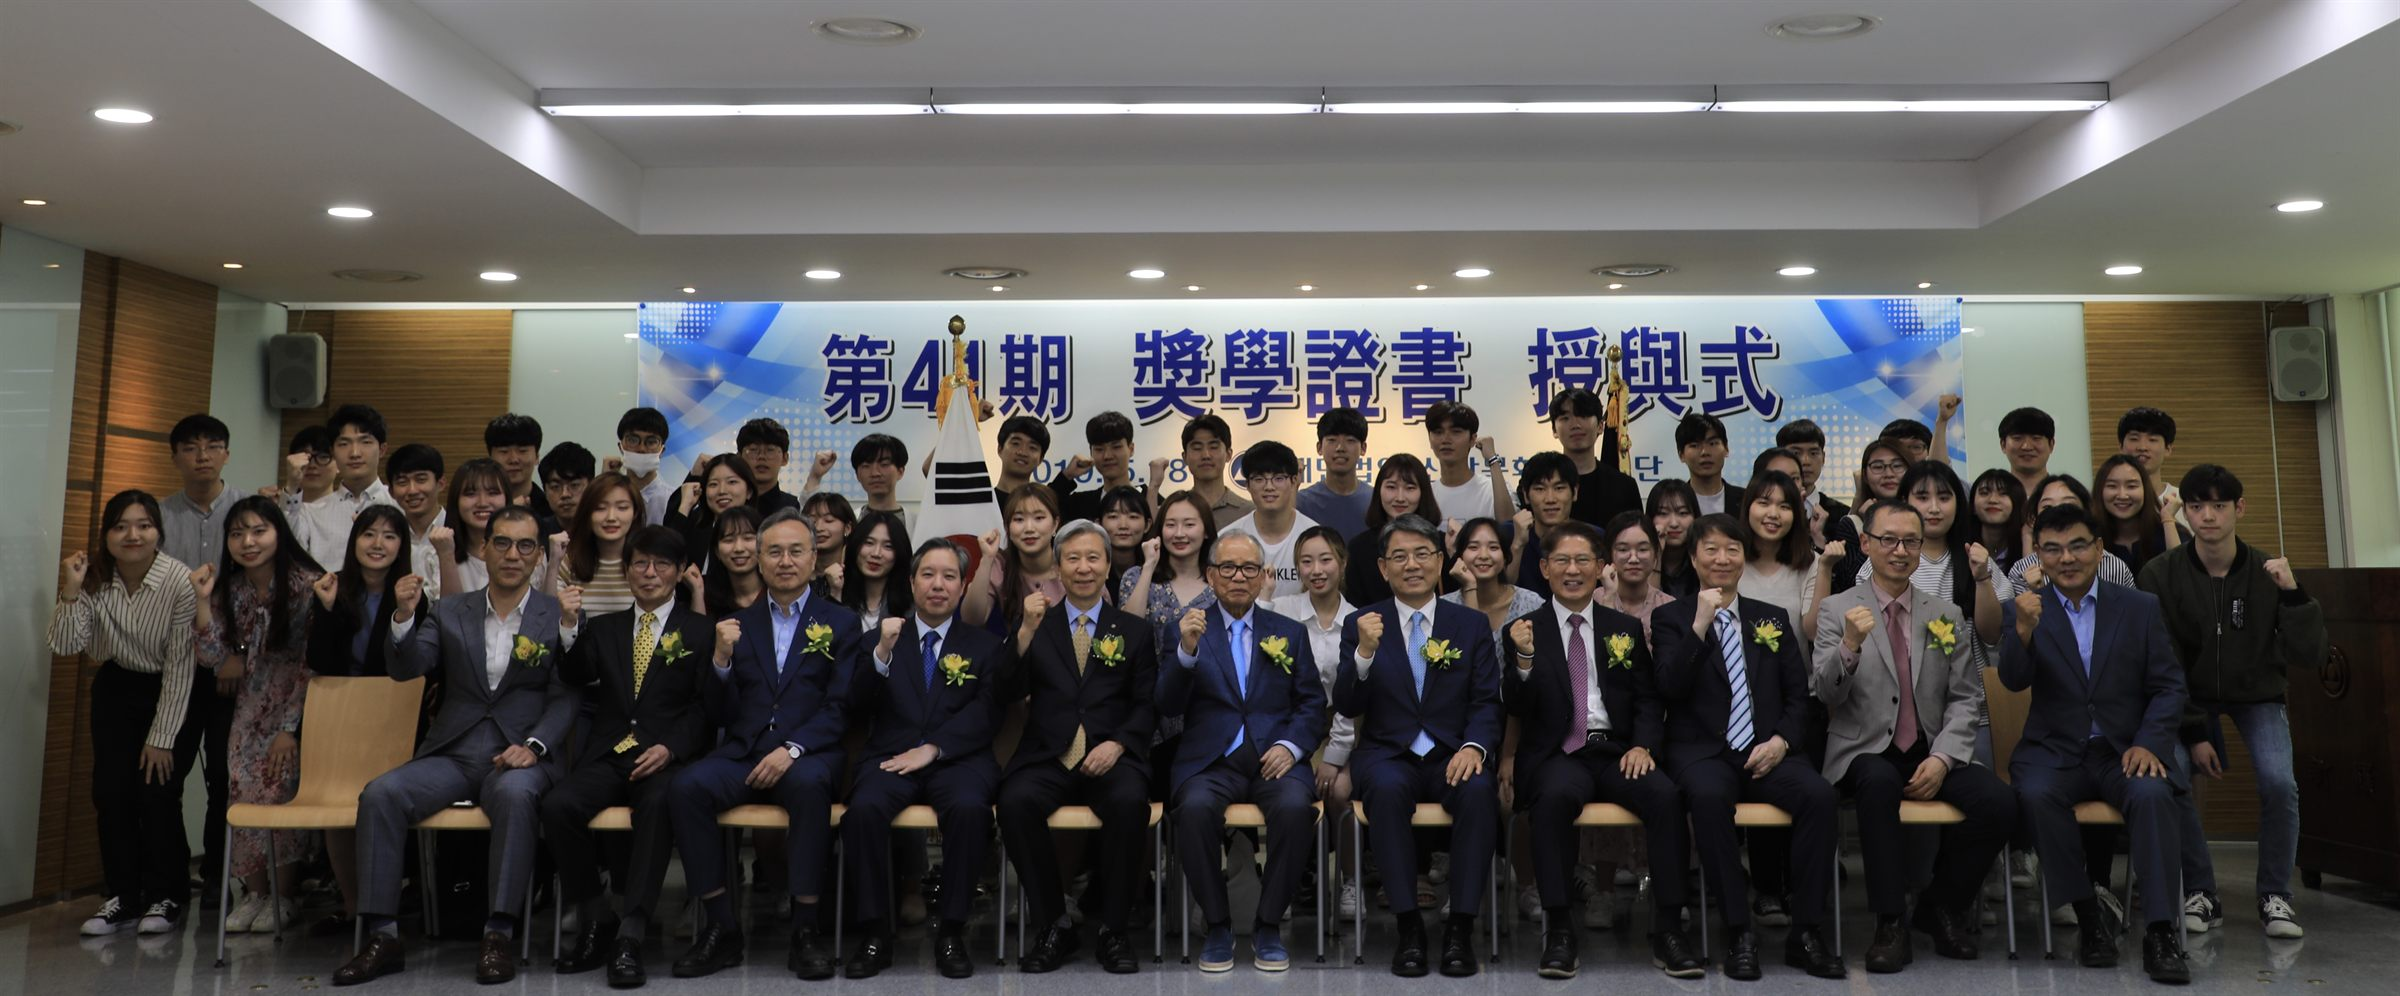
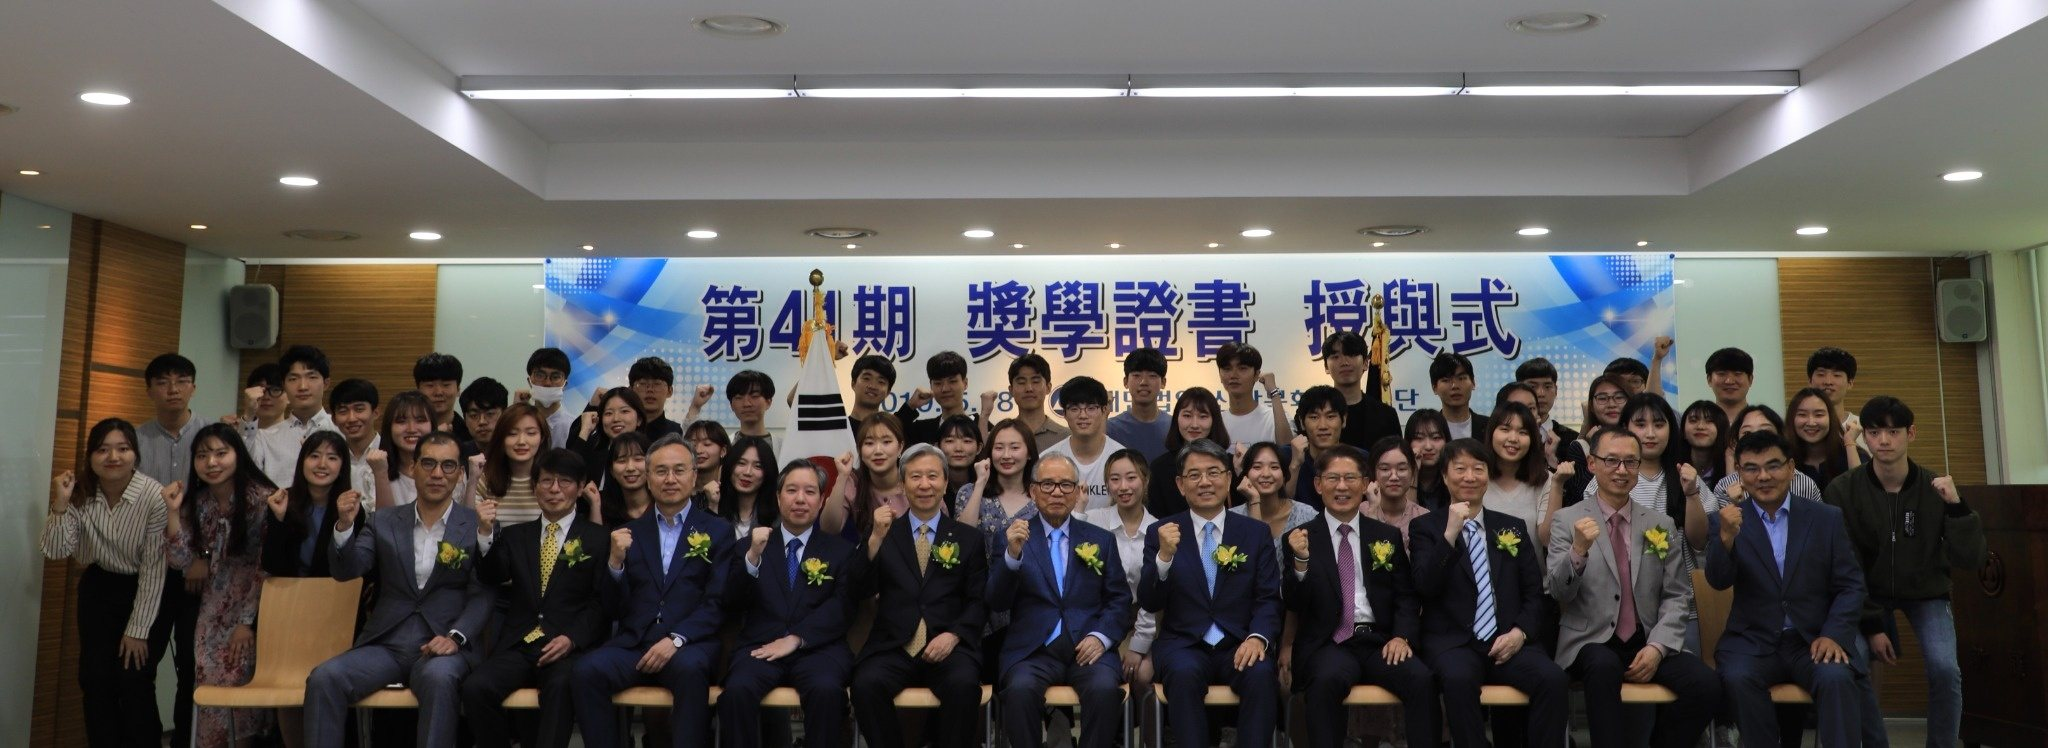
각 서브페이지 배너이미지 추가

diff --git a/src/components/ResourcesSubpage.vue b/src/components/ResourcesSubpage.vue
@@ -580,10 +580,16 @@ onUnmounted(() => {
 
 .sub-banner {
   position: relative;
-  background-image: url('../assets/history_founder.png');
+  background-image: url('../assets/resources_banner.jpg');
   background-size: cover;
-  background-position: center 30%;
-  padding: 140px 0 100px;
+  /* 책상과 책장이 사진 가운데에 있어 그 부분이 보이도록 맞춘다. */
+  background-position: center 50%;
+  /* 설명문이 한 줄이든 두 줄이든 다섯 페이지 배너 높이가 같도록 고정한다. */
+  min-height: 420px;
+  display: flex;
+  align-items: center;
+  /* 고정 메뉴바에 가려지는 위쪽을 뺀, 실제로 보이는 영역의 가운데에 글자를 놓는다. */
+  padding: calc(60px + var(--header-height)) 0 60px;
   text-align: center;
   border-bottom: 1px solid var(--border-color);
   overflow: hidden;
@@ -597,9 +603,9 @@ onUnmounted(() => {
   width: 100%;
   height: 100%;
   background: linear-gradient(to bottom,
-      rgba(248, 250, 252, 0.52) 0%,
-      rgba(248, 250, 252, 0.42) 60%,
-      var(--bg-color) 100%);
+      rgba(0, 0, 0, 0.55) 0%,
+      rgba(0, 0, 0, 0.45) 60%,
+      rgba(0, 0, 0, 0.65) 100%);
   z-index: 1;
 }
 
@@ -609,7 +615,7 @@ onUnmounted(() => {
 }
 
 .banner-subtitle {
-  color: var(--primary-color);
+  color: rgba(255, 255, 255, 0.85);
   font-size: 0.9rem;
   font-weight: 700;
   letter-spacing: 0.25em;
@@ -621,12 +627,12 @@ onUnmounted(() => {
 .banner-title {
   font-size: 3rem;
   font-weight: 500;
-  color: var(--text-primary);
+  color: #ffffff;
   margin-bottom: 16px;
 }
 
 .banner-desc {
-  color: var(--text-secondary);
+  color: rgba(255, 255, 255, 0.9);
   font-size: 1.1rem;
   max-width: none;
   margin: 0 auto;

diff --git a/src/components/NoticeSubpage.vue b/src/components/NoticeSubpage.vue
@@ -284,10 +284,16 @@ onUnmounted(() => {
 
 .sub-banner {
   position: relative;
-  background-image: url('../assets/history_founder.png');
+  background-image: url('../assets/notice_banner.jpg');
   background-size: cover;
-  background-position: center 30%;
-  padding: 140px 0 100px;
+  /* 책상 위 자료가 사진 아래쪽에 있어 그 부분이 보이도록 맞춘다. */
+  background-position: center 50%;
+  /* 설명문이 한 줄이든 두 줄이든 다섯 페이지 배너 높이가 같도록 고정한다. */
+  min-height: 420px;
+  display: flex;
+  align-items: center;
+  /* 고정 메뉴바에 가려지는 위쪽을 뺀, 실제로 보이는 영역의 가운데에 글자를 놓는다. */
+  padding: calc(60px + var(--header-height)) 0 60px;
   text-align: center;
   border-bottom: 1px solid var(--border-color);
   overflow: hidden;
@@ -301,9 +307,9 @@ onUnmounted(() => {
   width: 100%;
   height: 100%;
   background: linear-gradient(to bottom,
-      rgba(248, 250, 252, 0.52) 0%,
-      rgba(248, 250, 252, 0.42) 60%,
-      var(--bg-color) 100%);
+      rgba(0, 0, 0, 0.55) 0%,
+      rgba(0, 0, 0, 0.45) 60%,
+      rgba(0, 0, 0, 0.65) 100%);
   z-index: 1;
 }
 
@@ -313,7 +319,7 @@ onUnmounted(() => {
 }
 
 .banner-subtitle {
-  color: var(--primary-color);
+  color: rgba(255, 255, 255, 0.85);
   font-size: 0.9rem;
   font-weight: 700;
   letter-spacing: 0.25em;
@@ -325,12 +331,12 @@ onUnmounted(() => {
 .banner-title {
   font-size: 3rem;
   font-weight: 500;
-  color: var(--text-primary);
+  color: #ffffff;
   margin-bottom: 16px;
 }
 
 .banner-desc {
-  color: var(--text-secondary);
+  color: rgba(255, 255, 255, 0.9);
   font-size: 1.1rem;
   max-width: 600px;
   margin: 0 auto;

diff --git a/src/components/CommunitySubpage.vue b/src/components/CommunitySubpage.vue
@@ -218,10 +218,16 @@ onUnmounted(() => {
 
 .sub-banner {
   position: relative;
-  background-image: url('../assets/history_founder.png');
+  background-image: url('../assets/community_banner.jpg');
   background-size: cover;
-  background-position: center 30%;
-  padding: 140px 0 100px;
+  /* 맞잡은 손이 사진 가운데에 있어 그 부분이 보이도록 맞춘다. */
+  background-position: center 50%;
+  /* 설명문이 한 줄이든 두 줄이든 다섯 페이지 배너 높이가 같도록 고정한다. */
+  min-height: 420px;
+  display: flex;
+  align-items: center;
+  /* 고정 메뉴바에 가려지는 위쪽을 뺀, 실제로 보이는 영역의 가운데에 글자를 놓는다. */
+  padding: calc(60px + var(--header-height)) 0 60px;
   text-align: center;
   border-bottom: 1px solid var(--border-color);
   overflow: hidden;
@@ -235,9 +241,9 @@ onUnmounted(() => {
   width: 100%;
   height: 100%;
   background: linear-gradient(to bottom,
-      rgba(248, 250, 252, 0.52) 0%,
-      rgba(248, 250, 252, 0.42) 60%,
-      var(--bg-color) 100%);
+      rgba(0, 0, 0, 0.55) 0%,
+      rgba(0, 0, 0, 0.45) 60%,
+      rgba(0, 0, 0, 0.65) 100%);
   z-index: 1;
 }
 
@@ -247,7 +253,7 @@ onUnmounted(() => {
 }
 
 .banner-subtitle {
-  color: var(--primary-color);
+  color: rgba(255, 255, 255, 0.85);
   font-size: 0.9rem;
   font-weight: 700;
   letter-spacing: 0.25em;
@@ -259,12 +265,12 @@ onUnmounted(() => {
 .banner-title {
   font-size: 3rem;
   font-weight: 500;
-  color: var(--text-primary);
+  color: #ffffff;
   margin-bottom: 16px;
 }
 
 .banner-desc {
-  color: var(--text-secondary);
+  color: rgba(255, 255, 255, 0.9);
   font-size: 1.1rem;
   max-width: 600px;
   margin: 0 auto;

diff --git a/src/components/ScholarshipSubpage.vue b/src/components/ScholarshipSubpage.vue
@@ -242,10 +242,16 @@ onUnmounted(() => {
 
 .sub-banner {
   position: relative;
-  background-image: url('../assets/history_founder.png');
+  background-image: url('../assets/scholarship_banner.jpg');
   background-size: cover;
-  background-position: center 30%;
-  padding: 140px 0 100px;
+  /* 학사모가 사진 가운데에 있어 그 부분이 보이도록 맞춘다. */
+  background-position: center 50%;
+  /* 설명문이 한 줄이든 두 줄이든 다섯 페이지 배너 높이가 같도록 고정한다. */
+  min-height: 420px;
+  display: flex;
+  align-items: center;
+  /* 고정 메뉴바에 가려지는 위쪽을 뺀, 실제로 보이는 영역의 가운데에 글자를 놓는다. */
+  padding: calc(60px + var(--header-height)) 0 60px;
   text-align: center;
   border-bottom: 1px solid var(--border-color);
   overflow: hidden;
@@ -259,9 +265,9 @@ onUnmounted(() => {
   width: 100%;
   height: 100%;
   background: linear-gradient(to bottom,
-      rgba(248, 250, 252, 0.52) 0%,
-      rgba(248, 250, 252, 0.42) 60%,
-      var(--bg-color) 100%);
+      rgba(0, 0, 0, 0.55) 0%,
+      rgba(0, 0, 0, 0.45) 60%,
+      rgba(0, 0, 0, 0.65) 100%);
   z-index: 1;
 }
 
@@ -271,7 +277,7 @@ onUnmounted(() => {
 }
 
 .banner-subtitle {
-  color: var(--primary-color);
+  color: rgba(255, 255, 255, 0.85);
   font-size: 0.9rem;
   font-weight: 700;
   letter-spacing: 0.25em;
@@ -283,12 +289,12 @@ onUnmounted(() => {
 .banner-title {
   font-size: 3rem;
   font-weight: 500;
-  color: var(--text-primary);
+  color: #ffffff;
   margin-bottom: 16px;
 }
 
 .banner-desc {
-  color: var(--text-secondary);
+  color: rgba(255, 255, 255, 0.9);
   font-size: 1.1rem;
   max-width: 600px;
   margin: 0 auto;

diff --git a/src/components/AboutSubpage.vue b/src/components/AboutSubpage.vue
@@ -551,7 +551,12 @@ watch(activeTab, (newTab) => {
   background-size: cover;
   /* 인물들이 사진 중앙 아래쪽에 모여 있어 그 부분이 보이도록 맞춘다. */
   background-position: center 35%;
-  padding: 140px 0 120px;
+  /* 설명문이 한 줄이든 두 줄이든 다섯 페이지 배너 높이가 같도록 고정한다. */
+  min-height: 420px;
+  display: flex;
+  align-items: center;
+  /* 고정 메뉴바에 가려지는 위쪽을 뺀, 실제로 보이는 영역의 가운데에 글자를 놓는다. */
+  padding: calc(60px + var(--header-height)) 0 60px;
   text-align: center;
   border-bottom: 1px solid var(--border-color);
   overflow: hidden;
